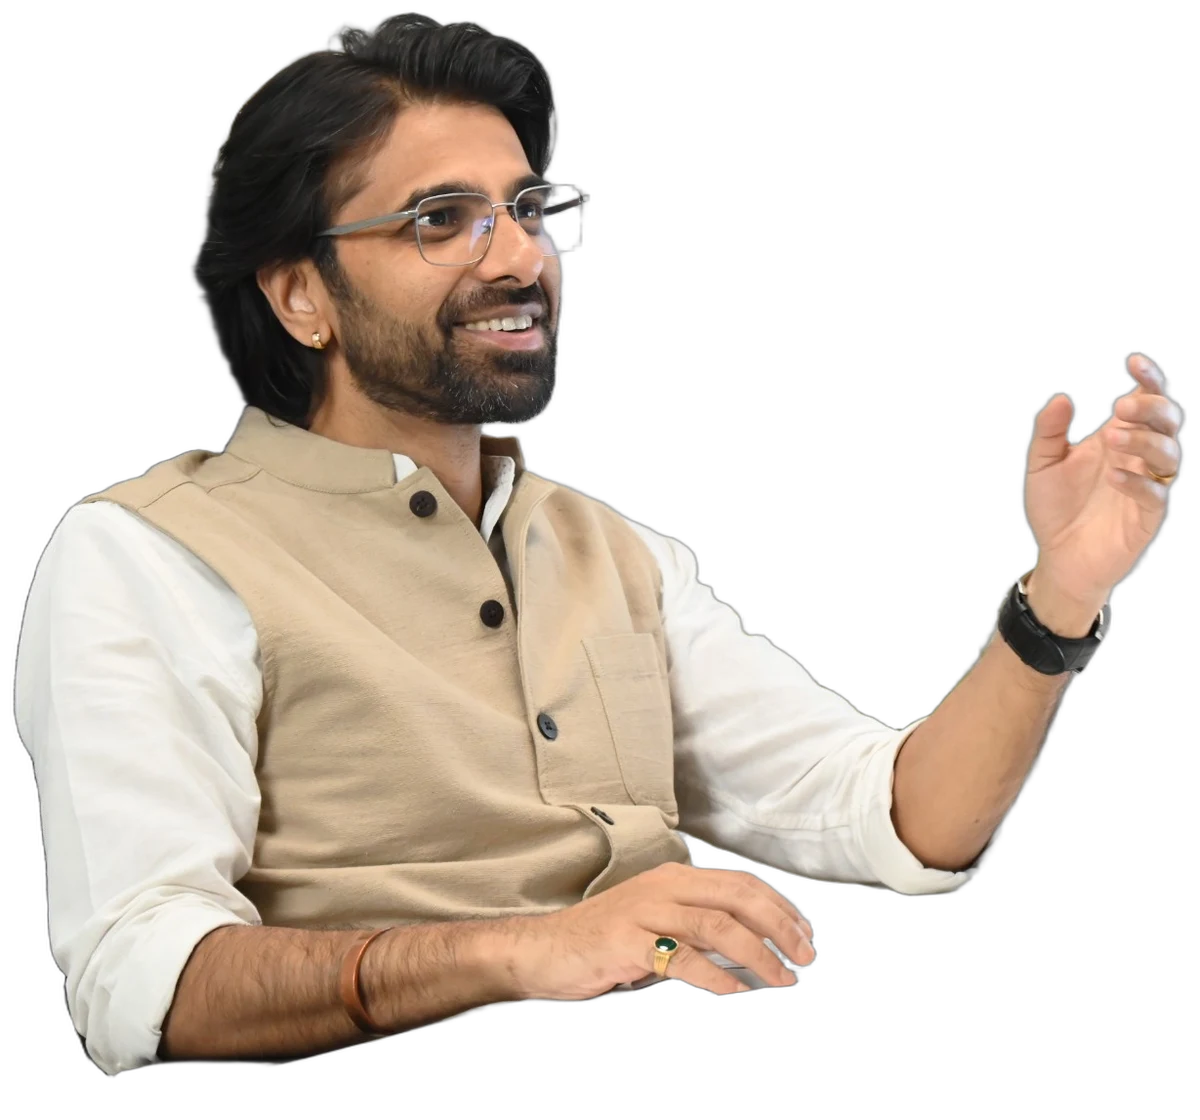
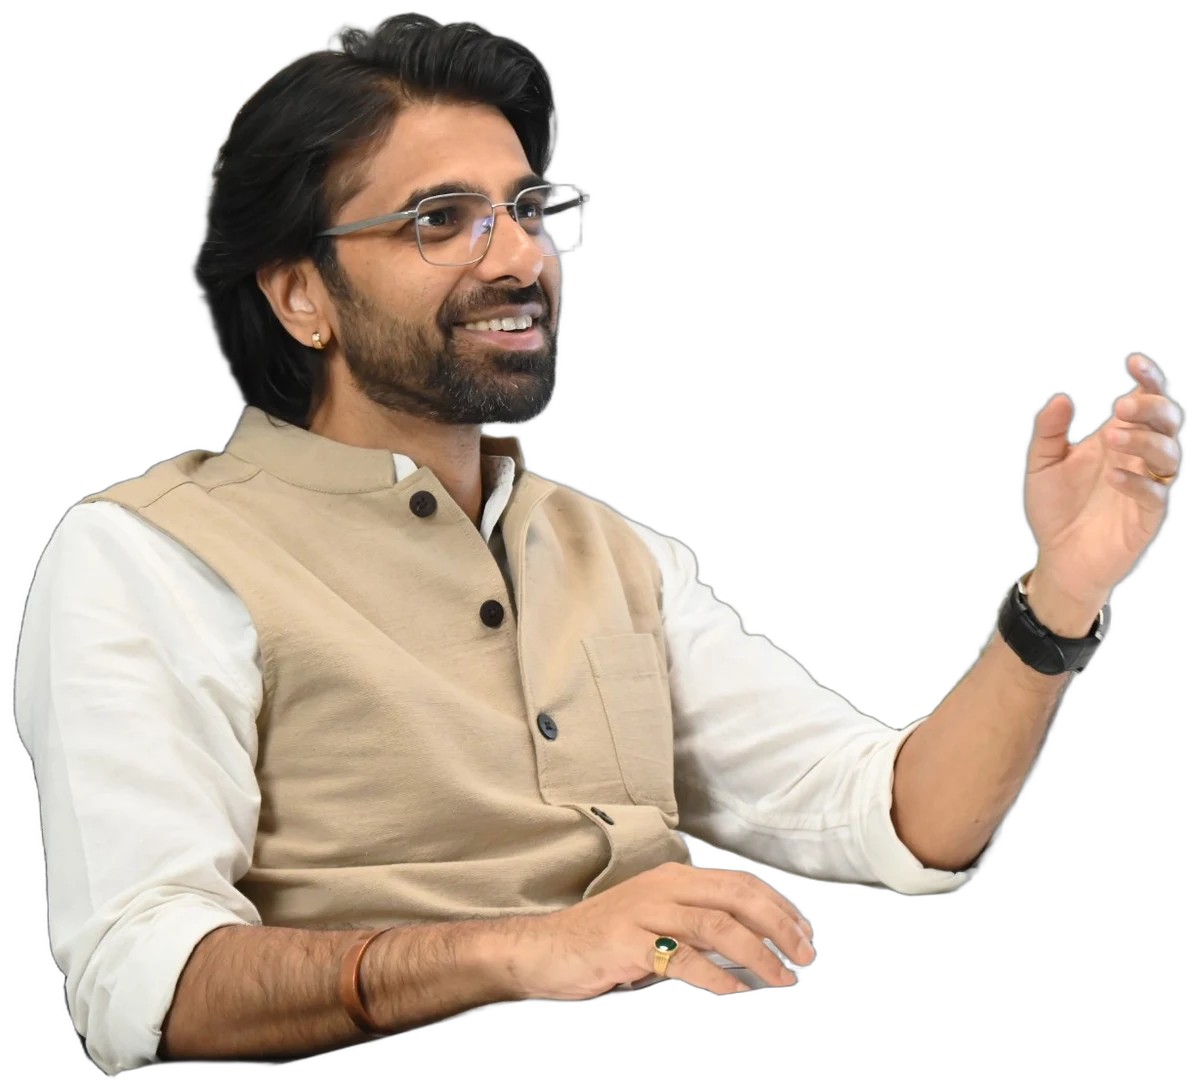
Hero: ground the cutout like the original composition
Crop the cutout flush to the figure so it no longer floats, and size it
exactly like the reference placeholder: anchored to the stage bottom,
88 percent height on desktop, the original 12 percent base fade, no
extra shadow.

Claude-Session: https://claude.ai/code/session_01Soiv5GPEpGSJ6WU5Nsditu

diff --git a/src/styles/site.css b/src/styles/site.css
@@ -2858,5 +2858,5 @@ nav .l .dd.open .menu{opacity:1;pointer-events:auto;transform:none}
 /* 3D hero portrait: the background-removed cutout sits on the arch and the
    head and gesture rise above its rim, so the figure reads as popping out
    of the frame. Overrides the earlier framed-arch treatment. */
-.hero .fig{left:50%;right:auto;transform:translateX(-50%);height:94%;width:112%;max-width:none;object-fit:contain;object-position:bottom center;border-radius:0;filter:drop-shadow(0 24px 40px rgba(11,26,46,.28));-webkit-mask:linear-gradient(0deg,transparent 0,#000 9%);mask:linear-gradient(0deg,transparent 0,#000 9%)}
-@media(max-width:900px){.hero .fig{height:96%;width:104%}}
+.hero .fig{left:50%;right:auto;transform:translateX(-50%);height:88%;width:auto;max-width:none;object-fit:fill;object-position:center;border-radius:0;-webkit-mask:linear-gradient(0deg,transparent 0,#000 12%);mask:linear-gradient(0deg,transparent 0,#000 12%)}
+@media(max-width:900px){.hero .fig{height:92%}}

diff --git a/src/components/home/Hero.tsx b/src/components/home/Hero.tsx
@@ -15,7 +15,7 @@ export function Hero({ sec = {} as PageSection }: { sec?: PageSection }) {
           src={sec.imageUrl ?? "/images/hero-anjan-cut.webp"}
           alt={sec.imageAlt ?? "Anjan Prasad, seated at his desk"}
           width={1200}
-          height={1120}
+          height={1080}
           priority
           sizes="(max-width: 900px) 90vw, 600px"
         />
